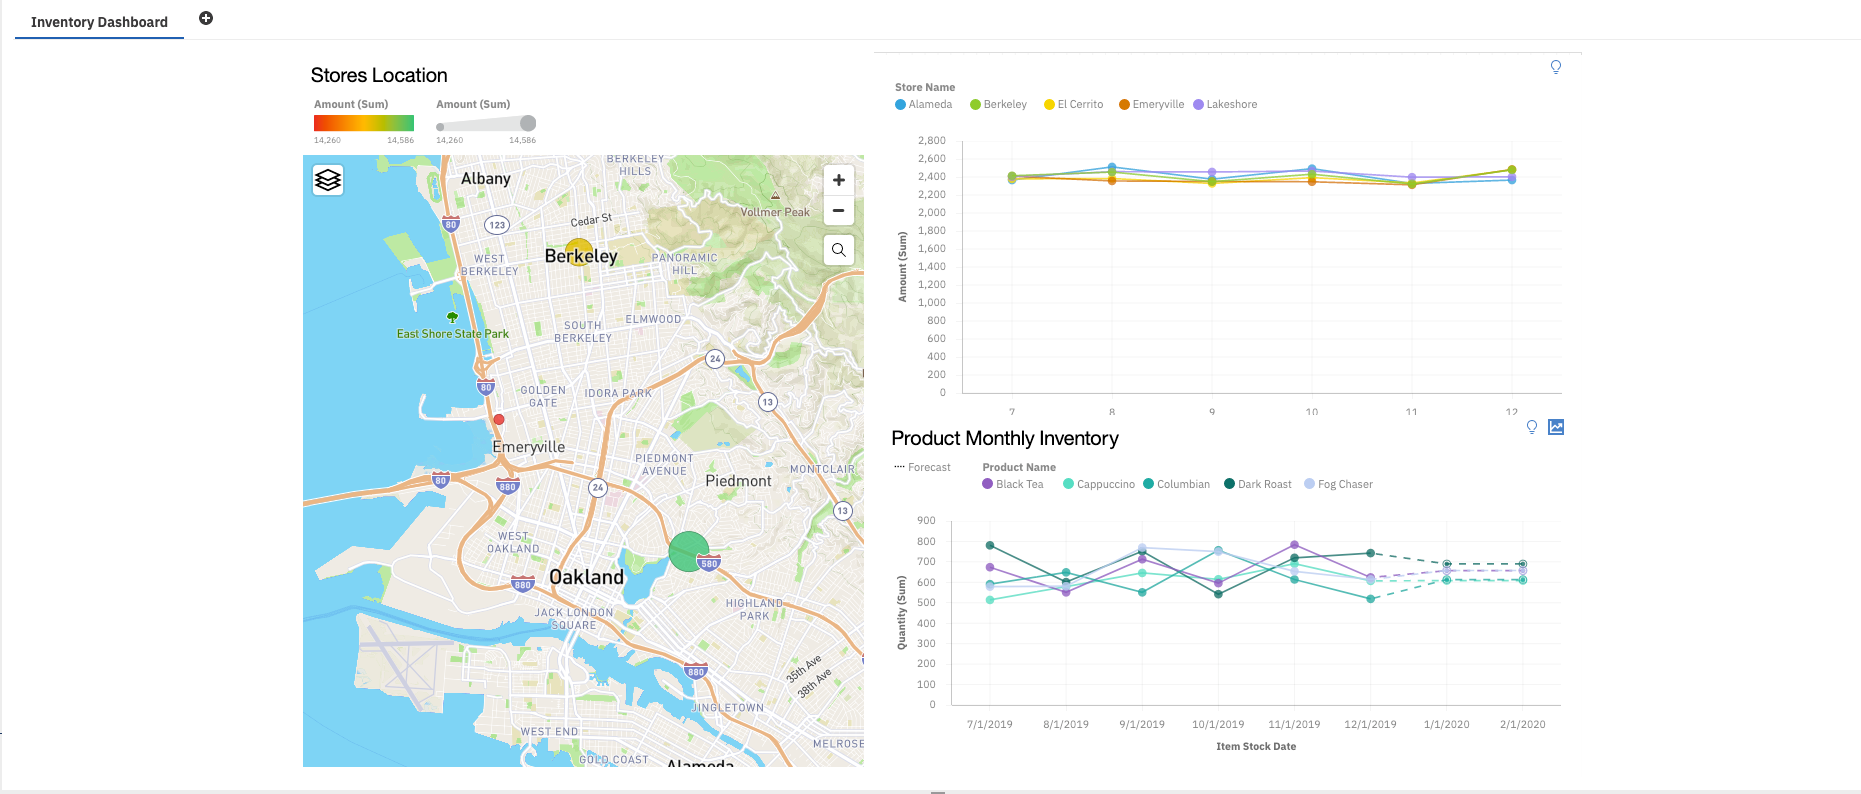
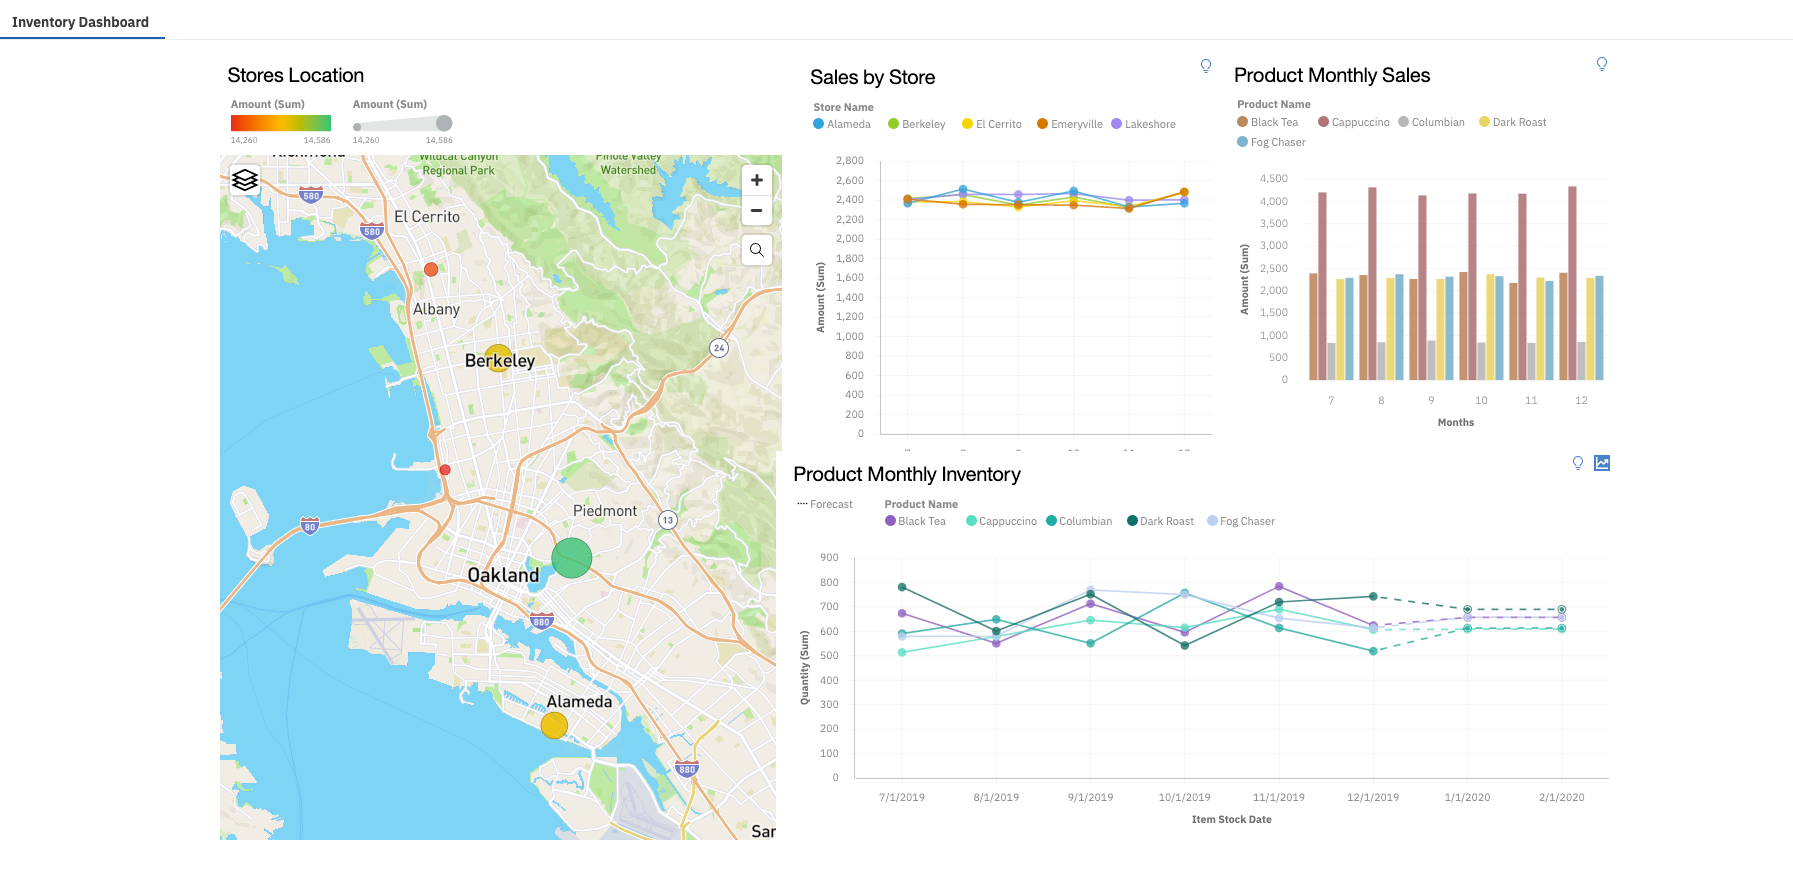
inventory dashboard readme

diff --git a/lib/common/data-util.js b/lib/common/data-util.js
@@ -99,10 +99,10 @@ module.exports = {
           let daysInMonth = getDaysInMonth(month);
           for (let day = 1; day <= daysInMonth; day++) {
             let amt;
-            if (product.name === 'Cappuccino') {
+            if (product.name == 'Fog Chaser' || product.name == 'Columbian') {
               // most popular
-              amt = randomIntFromInterval(15, 40);
-            } else if (product.name === 'Columbian') {
+              amt = randomIntFromInterval(25, 40);
+            } else if (product.name == 'Dark Roast') {
               // least popular
               amt = randomIntFromInterval(1, 10);
             } else {

diff --git a/doc/source/business-data.md b/doc/source/business-data.md
@@ -54,6 +54,7 @@ From the command prompt go to the `lib` folder in your project directory. And ru
 cd lib/db/
 node generate-product-business-data.js
 ```
+This will create schema, assign relationships and load the product and sales data to the database.
 
 ## 4. Create database connection in Cognos Analytics
 
@@ -127,7 +128,7 @@ Select the dashboard template or any other template that fits your need. We are 
 
 In this section we will create visualizations using the schema and data that we have loaded from IBM Db2 Warehouse.
 
-### 1. Store Locations with Sales
+### 1. Store locations with sales
 
 From the visualization list select map and drag it to the canvas.
 
@@ -142,6 +143,9 @@ From the `Store` table, select `Lat` and `Long` and drag and drop them into `Lat
 To change the style of the map, select `properties` from top right corner, go to `Chart` and expand it. Select `Style` and choose `outdoors` or any that fits your purpose from the dropdown.
 
 ![map style](images/map-style.png)
+
+You can also change the point color range by 
+
 
 Lets give title to the widget. To do so, select the widget and select the `Title` (1) icon from the widget menu and give it an appropriate title.
 
@@ -190,10 +194,35 @@ One of the feature of Cognos Analytics is to add forecasting. In this chart we c
 
 ![calculation](images/forecasting.png)
 
+### 4. Product Monthly Sales
+
+Next chart we will be creating is `Product Monthly Sales`. This will help us determine and relate the inventory which is inversely porportional to the sales.
+
+1- Select `Product Name` from `Product` table,`Sale Date`,`Amount` from `Sales` table, drag and drop them to the empty area of the canvas.
+
+2- You can maximize the widget while you are working on it. Select the `sale_date_month` calculation and replace the `Sale Date` from the fields. We need to do this to get the sales monthly.
+
+3- Change the chart by select the widget menu and changing it to a `Column` chart.
+
+4- You can change the color by selecting from the existing color pallete from the properties.
+
+5- Also rename the `Item axis title` to `Months`.
+
+6- Finally provide a title `Product Monthly Sales` to the widget.
+
+
+![calculation](images/product-monthly-sales.gif)
+
 ### Complete and Save
 
-Congratulations! You have now completed the creation of inventory dashboard. The final visualization should like below:
+Congratulations! You have now completed the creation of inventory dashboard. The final visualization should look like below:
 
 ![calculation](images/final-dashboard.png)
 
-Click the `Save` icon in the top mentu to save your dashboard.
+Click the `Save` icon in the top menu to save your dashboard.
+
+## Whats Next?
+
+|         |            |   |
+| ------------- |:-------------:| -----:|
+| <div style="width:300px">![Previous](images/previous.png)</div>| <div style="width:300px">![Previous](images/previous.png)</div>|<div style="width:300px">![Previous](images/previous.png)</div> |
